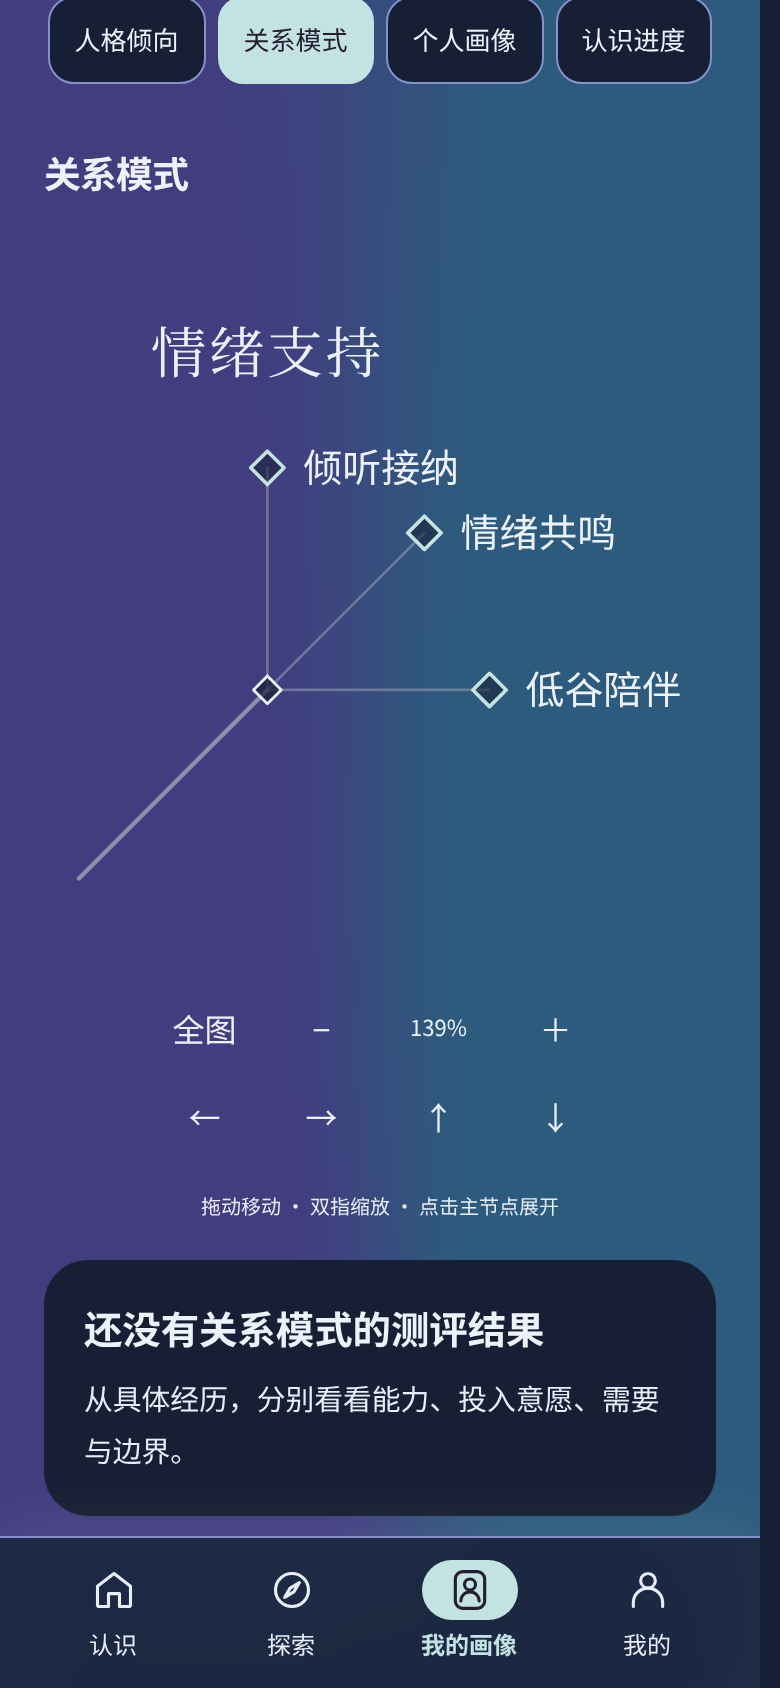
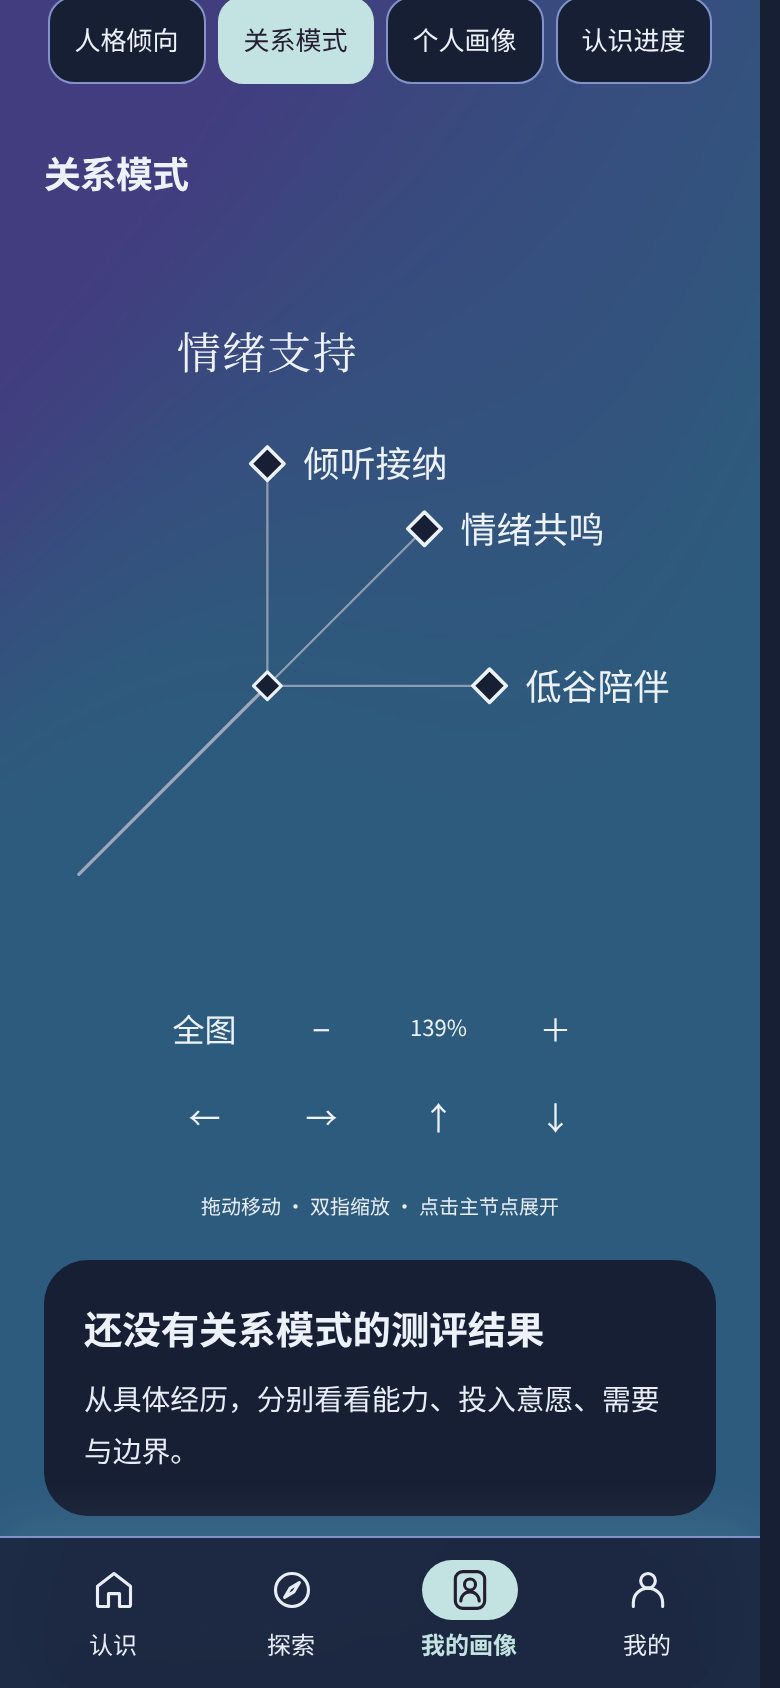
Refine geometric map contrast and hierarchy

diff --git a/site/review/relationship-map/crystal.css b/site/review/relationship-map/crystal.css
@@ -1,15 +1,21 @@
+/* Geometry-specific roles inherit each theme's palette; widths stay legible at overview scale. */
+.crystal{--map-stroke:var(--ink);--map-main-width:1.65px;--map-child-width:1.15px;--map-node-width:1.55px;--map-main-opacity:.88;--map-child-opacity:.72;--map-node-fill:var(--paper)}
+.crystal[data-theme-mode=dark]{--map-main-opacity:.96;--map-child-opacity:.82}
 .crystal #bg,.crystal #leaves{display:none}
-.crystal #gGreen path{fill:none;stroke:var(--ink);stroke-linecap:round;stroke-linejoin:round}
-.crystal .crystal-spine{stroke-width:1.55;stroke-opacity:.76}
-.crystal .crystal-twig{stroke-width:1;stroke-opacity:.48}
-.crystal .crystal-joint{fill:var(--paper);fill-opacity:.7;stroke:var(--ink);stroke-width:1}
-.crystal .crystal-terminal{fill:var(--paper);fill-opacity:.55;stroke:var(--primary);stroke-width:1.3}
+.crystal #gGreen path{fill:none;stroke:var(--map-stroke);stroke-linecap:round;stroke-linejoin:round;vector-effect:non-scaling-stroke}
+.crystal .crystal-spine{stroke-width:calc(var(--map-main-width) / var(--map-scale,1));stroke-opacity:var(--map-main-opacity)}
+.crystal .crystal-twig{stroke-width:calc(var(--map-child-width) / var(--map-scale,1));stroke-opacity:var(--map-child-opacity)}
+.crystal .crystal-joint,.crystal .crystal-terminal{fill:var(--map-node-fill);stroke:var(--map-stroke);stroke-width:calc(var(--map-node-width) / var(--map-scale,1));vector-effect:non-scaling-stroke}
+.crystal .crystal-terminal{stroke-width:calc(1.8px / var(--map-scale,1))}
 .crystal .t-title{font:500 20px var(--serif);letter-spacing:1px}
-.crystal .t-item{font:400 14px var(--sans)}
+.crystal .stage[data-mode=focus] .t-title{font-size:min(17px,calc(22px / var(--map-scale,1)));letter-spacing:.5px}
+.crystal .t-item{font:400 min(14px,calc(18px / var(--map-scale,1))) var(--sans)}
 .crystal .orb{width:40px;left:277.5px;top:261.5px}
-.crystal .orb-body{background:color-mix(in srgb,var(--paper) 42%,transparent);border:1px solid color-mix(in srgb,var(--ink) 30%,transparent);box-shadow:none}
+.crystal .orb-body{background:var(--map-node-fill);border:1.5px solid var(--map-stroke);box-shadow:none}
 .crystal .orb-svg>g{display:none}.crystal .orb-txt{fill:var(--ink);font-weight:500}
 .crystal .stage[data-mode=focus] .orb{display:none}
 .crystal #hits .hit:hover{stroke:none;fill:color-mix(in srgb,var(--ink) 6%,transparent)}
-.crystal #hits .hit:focus-visible{stroke:var(--primary);stroke-width:2}
+.crystal #hits .hit:focus-visible{stroke:var(--map-stroke);stroke-width:calc(1.5px / var(--map-scale,1));stroke-dasharray:3 3;fill:none;vector-effect:non-scaling-stroke}
 .crystal .camera-tools{background:transparent;border:0}
+
+.crystal .semantic-joint circle{fill:var(--map-node-fill);stroke:var(--map-stroke);stroke-width:calc(var(--map-node-width) / var(--map-scale,1))}

diff --git a/site/review/relationship-map/crystal.js b/site/review/relationship-map/crystal.js
@@ -1,6 +1,6 @@
 /* Opt-in relationship comparison; the published botanical rendering remains the default. */
 (()=>{
- if(MapModel.type!=='relationships'||new URLSearchParams(location.search).get('geometry')!=='crystal')return;
+ if(!['relationships','structure'].includes(MapModel.type)||new URLSearchParams(location.search).get('geometry')!=='crystal')return;
  const art=RelationshipArt,NS='http://www.w3.org/2000/svg',C=[297.5,281.5],R=118,L=80;
  document.body.classList.add('crystal');document.documentElement.style.colorScheme=document.body.dataset.themeMode;
  const css=document.createElement('link');css.rel='stylesheet';css.href='crystal.css';document.head.append(css);
@@ -17,9 +17,20 @@
   const main=path(b,[point(b.angle,22),b.joint],0);
   make('path',{d:`M${b.joint[0]},${b.joint[1]-5}l5,5l-5,5l-5,-5Z`,class:'crystal-joint'},b.head);
   b.titleEl=make('text',{class:'t-title crystal-title','text-anchor':'middle'},b.head);b.titleEl.textContent=b.name;
+  // The optional nodeSpecs schema already belongs to the structural reader.
+  // Respect its explicit parents/depths; the normal relationship data stays flat.
+  const specs=b.nodeSpecs||[{id:b.id,parent:'root',type:'topic'},...b.items.map(it=>({id:it.id,parent:b.id,type:'terminal'}))];
+  const placed=new Map([[b.id,{point:b.joint,angle:b.angle,path:main,depth:1}]]);
+  specs[0].path=0;specs[0].point=b.joint;
+  for(const spec of specs.slice(1)){
+   const parent=placed.get(spec.parent);if(!parent)throw new Error('Geometric node requires an explicit preceding parent: '+spec.id);
+   const peers=specs.filter(n=>n.parent===spec.parent),index=peers.indexOf(spec),a=parent.angle+(index-(peers.length-1)/2)*Math.min(Math.PI/4,Math.PI/Math.max(1,peers.length-1));
+   const length=L/(parent.depth>1?1.15:1),end=[parent.point[0]+Math.cos(a)*length,parent.point[1]+Math.sin(a)*length],p=path(b,[parent.point,end],b.paths.length,parent.path);
+   spec.path=p.vi;spec.point=end;placed.set(spec.id,{point:end,angle:a,path:p,depth:parent.depth+1});
+  }
   b.items.forEach((it,n)=>{
-   const a=b.angle+(n-(b.items.length-1)/2)*Math.PI/4,end=[b.joint[0]+Math.cos(a)*L,b.joint[1]+Math.sin(a)*L];
-   it.path=path(b,[b.joint,end],n+1,main);it.path.item=n;it.b=end;it.cy=end[1];
+   const node=placed.get(it.nodeId||it.id),end=node.point;
+   it.path=node.path;it.path.item=n;it.b=end;it.cy=end[1];
    it.g.replaceChildren();it.bul=make('g',{});
    make('path',{d:`M${end[0]},${end[1]-6}l6,6l-6,6l-6,-6Z`,class:'crystal-terminal'},it.g);
    const centered=Math.abs(end[0]-C[0])<5,left=end[0]<C[0]-5;

diff --git a/site/review/relationship-map/previews/crystal-candidate/README.md b/site/review/relationship-map/previews/crystal-candidate/README.md
@@ -6,4 +6,4 @@
 - 独立图：`review/relationship-map/index.html?geometry=crystal&theme=green&still`。
 - 点击主节点聚焦；点击末端阅读说明；支持拖动、双指缩放和键盘控制。
 
-截图为Chromium在390×844 CSS像素、DPR 2、减弱动态下捕获的实际APP。候选尚待设计评审，没有替换线上默认图。
+截图为Chromium在390×844 CSS像素、DPR 2下捕获的实际APP：绿色使用减弱动态，暗色使用背景动态的确定性相位。候选尚待设计评审，没有替换线上默认图。
